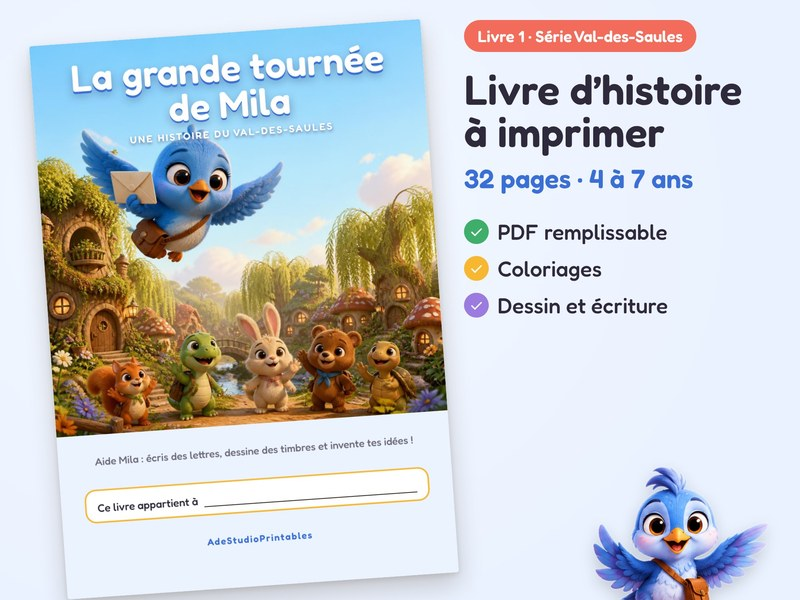
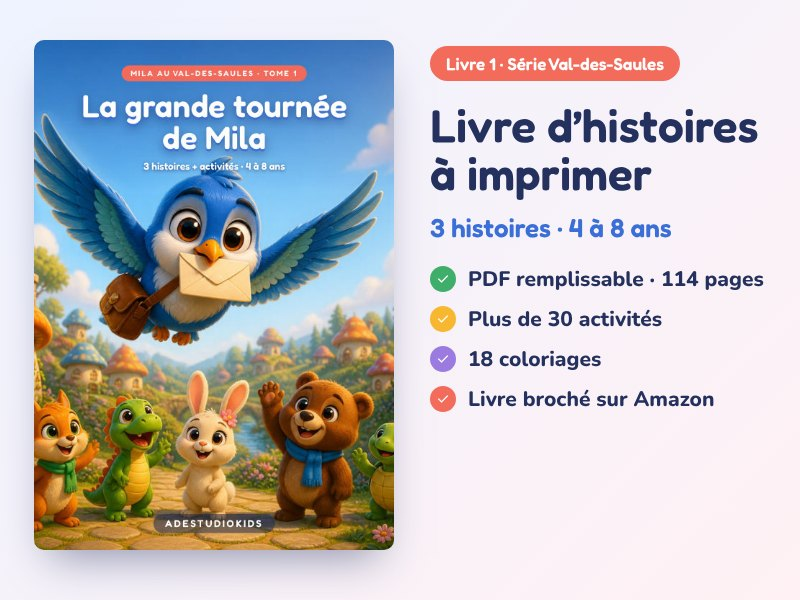
Mila books: new edition cards, add Mila Grows Up / Mila grandit, Amazon paperback links
Claude-Session: https://claude.ai/code/session_015x77RSHWs4ABUyjn3YimF7

diff --git a/index.html b/index.html
@@ -208,11 +208,17 @@ footer a{text-decoration:none} footer a:hover{color:#fff;text-decoration:underli
 <p class="desc" data-fr="26 pages d’hiver pour les 4 à 7 ans : coloriage magique, labyrinthe, mots mêlés, relier les points, coloriages et un diplôme, plus un puzzle numérique. (version anglaise)">26 winter pages for ages 4 to 7: colour by number, maze, word search, dot to dot, colouring and a certificate, plus a digital jigsaw puzzle.</p>
 <p class="buyrow"><span class="price">€6.90</span><a class="etsy" href="https://www.etsy.com/listing/4600428587/winter-activity-book-kids-4-7-printable" target="_blank" rel="noopener" data-fr="Voir sur Etsy">See on Etsy</a></p><a class="alt" href="https://adestudioprintables.gumroad.com/l/nopyoc" target="_blank" rel="noopener" data-fr="Lot FR + EN sur Gumroad, €9.90">English + French bundle on Gumroad, €9.90</a>
 </li><li class="book">
-<a class="cv" href="https://www.etsy.com/listing/4600859390/kids-printable-storybook-ages-4-7" target="_blank" rel="noopener" tabindex="-1" aria-hidden="true"><img src="milas-big-delivery.jpg" alt="Mila’s Big Delivery, printable storybook for ages 4 to 7" loading="lazy" width="800" height="600"><span class="badge" data-fr="Livre 1">Book 1</span></a>
-<p class="kind" data-fr="Livre d’histoire PDF remplissable">Fillable PDF storybook</p>
-<h3><a href="https://www.etsy.com/listing/4600859390/kids-printable-storybook-ages-4-7" target="_blank" rel="noopener">Mila’s Big Delivery storybook</a></h3>
-<p class="desc" data-fr="Aide Mila, l’oiseau facteur, à livrer ses lettres. Un livre d’histoire à compléter avec coloriages, dessins et écriture. 32 pages, 4 à 7 ans. (version anglaise)">Help Mila the post bird deliver her letters around Willow Hollow. A fillable storybook with colouring, drawing and writing pages. 32 pages, ages 4 to 7.</p>
-<p class="buyrow"><span class="price">€7.90</span><a class="etsy" href="https://www.etsy.com/listing/4600859390/kids-printable-storybook-ages-4-7" target="_blank" rel="noopener" data-fr="Voir sur Etsy">See on Etsy</a></p>
+<a class="cv" href="https://www.etsy.com/listing/4600859390" target="_blank" rel="noopener" tabindex="-1" aria-hidden="true"><img src="milas-big-delivery.jpg" alt="Mila’s Big Delivery, storybook and activity book for ages 4 to 8" loading="lazy" width="800" height="600"></a>
+<p class="kind" data-fr="Livre d’histoires PDF remplissable">Fillable PDF storybook</p>
+<h3><a href="https://www.etsy.com/listing/4600859390" target="_blank" rel="noopener">Mila’s Big Delivery</a></h3>
+<p class="desc" data-fr="Trois douces histoires sur le courage, la gratitude et l’entraide, avec plus de 30 activités, 18 coloriages et coloriage à l’écran. 114 pages, 4 à 8 ans. (version anglaise)">Three gentle stories from Willow Hollow about courage, gratitude and caring, with 30+ activities, 18 colouring pages and colour on screen. 114 pages, ages 4 to 8.</p>
+<p class="buyrow"><span class="price">€8.90</span><a class="etsy" href="https://www.etsy.com/listing/4600859390" target="_blank" rel="noopener" data-fr="Voir sur Etsy">See on Etsy</a></p><a class="alt" href="https://www.amazon.com/dp/B0HPYL23RK" target="_blank" rel="noopener" data-fr="Livre broché sur Amazon (anglais)">Paperback on Amazon, $14.99</a>
+</li><li class="book">
+<a class="cv" href="https://www.etsy.com/listing/4606591488" target="_blank" rel="noopener" tabindex="-1" aria-hidden="true"><img src="mila-grows-up.jpg" alt="Mila Grows Up, seven stories and colouring pages for ages 4 to 8" loading="lazy" width="800" height="600"></a>
+<p class="kind" data-fr="Livre d’histoires PDF remplissable">Fillable PDF storybook</p>
+<h3><a href="https://www.etsy.com/listing/4606591488" target="_blank" rel="noopener">Mila Grows Up</a></h3>
+<p class="desc" data-fr="Sept nouvelles histoires sur le courage, l’entraide, l’honnêteté, les erreurs et la patience, avec 30 coloriages. 102 pages, 4 à 8 ans. (version anglaise)">Seven new stories about courage, teamwork, honesty, mistakes and patience, with Let’s Talk pages, 30 colouring pages and colour on screen. 102 pages, ages 4 to 8.</p>
+<p class="buyrow"><span class="price">€7.90</span><a class="etsy" href="https://www.etsy.com/listing/4606591488" target="_blank" rel="noopener" data-fr="Voir sur Etsy">See on Etsy</a></p><a class="alt" href="https://www.amazon.com/dp/B0HQ1R6DHK" target="_blank" rel="noopener" data-fr="Livre broché sur Amazon (anglais)">Paperback on Amazon, $14.99</a>
 </li><li class="book">
 <a class="cv" href="https://www.etsy.com/listing/4600961739/kids-colouring-book-bundle-ages-4-10" target="_blank" rel="noopener" tabindex="-1" aria-hidden="true"><img src="colouring-books-bundle-5.jpg" alt="Kids colouring book bundle: animals, vehicles, ocean, safari and mandalas" loading="lazy" width="800" height="600"><span class="badge" data-fr="Meilleur prix">Best value</span></a>
 <p class="kind" data-fr="Lot de PDF à imprimer">Bundle</p>
@@ -353,11 +359,17 @@ footer a{text-decoration:none} footer a:hover{color:#fff;text-decoration:underli
 <p class="desc" data-fr="Véhicules à colorier : voitures, camions de pompiers, bus scolaires, trains et avions. 21 pages, 4 à 8 ans.">French vehicles colouring book: cars, fire trucks, school buses, trains and planes. 21 pages, ages 4 to 8.</p>
 <p class="buyrow"><span class="price">€4.99</span><a class="etsy" href="https://www.etsy.com/listing/4601181399/livre-de-coloriage-vehicules-enfant-4-8" target="_blank" rel="noopener" data-fr="Voir sur Etsy">See on Etsy</a></p>
 </li><li class="book">
-<a class="cv" href="https://www.etsy.com/listing/4600868300/livre-dhistoire-a-imprimer-enfant-4-7" target="_blank" rel="noopener" tabindex="-1" aria-hidden="true"><img src="la-grande-tournee-de-mila.jpg" alt="La grande tournée de Mila, livre d’histoire à imprimer, 4 à 7 ans" loading="lazy" width="800" height="600"></a>
-<p class="kind" data-fr="Livre d’histoire PDF remplissable">Fillable PDF storybook</p>
-<h3><a href="https://www.etsy.com/listing/4600868300/livre-dhistoire-a-imprimer-enfant-4-7" target="_blank" rel="noopener">La grande tournée de Mila</a></h3>
-<p class="desc" data-fr="Un livre d’histoire à compléter : aide Mila, l’oiseau facteur, à livrer ses lettres. Coloriages, dessins et écriture. 32 pages, 4 à 7 ans.">A French storybook to fill in: help Mila the post bird deliver her letters. Colouring, drawing and writing pages. 32 pages, ages 4 to 7.</p>
-<p class="buyrow"><span class="price">€7.90</span><a class="etsy" href="https://www.etsy.com/listing/4600868300/livre-dhistoire-a-imprimer-enfant-4-7" target="_blank" rel="noopener" data-fr="Voir sur Etsy">See on Etsy</a></p>
+<a class="cv" href="https://www.etsy.com/listing/4600868300" target="_blank" rel="noopener" tabindex="-1" aria-hidden="true"><img src="la-grande-tournee-de-mila.jpg" alt="La grande tournée de Mila, livre d’histoires et d’activités, 4 à 8 ans" loading="lazy" width="800" height="600"></a>
+<p class="kind" data-fr="Livre d’histoires PDF remplissable">Fillable PDF storybook</p>
+<h3><a href="https://www.etsy.com/listing/4600868300" target="_blank" rel="noopener">La grande tournée de Mila</a></h3>
+<p class="desc" data-fr="Trois douces histoires du Val-des-Saules sur le courage, la gratitude et l’entraide, avec plus de 30 activités, 18 coloriages et coloriage à l’écran. 114 pages, 4 à 8 ans.">Three gentle stories in French with 30+ activities, 18 colouring pages and colour on screen. 114 pages, ages 4 to 8. (French edition)</p>
+<p class="buyrow"><span class="price">€8.90</span><a class="etsy" href="https://www.etsy.com/listing/4600868300" target="_blank" rel="noopener" data-fr="Voir sur Etsy">See on Etsy</a></p><a class="alt" href="https://www.amazon.fr/dp/B0HPYJ6V76" target="_blank" rel="noopener" data-fr="Livre broché sur Amazon, 13,99 €">Paperback on Amazon (French), 13,99 €</a>
+</li><li class="book">
+<a class="cv" href="https://www.etsy.com/listing/4606596130" target="_blank" rel="noopener" tabindex="-1" aria-hidden="true"><img src="mila-grandit.jpg" alt="Mila grandit, sept histoires et coloriages, 4 à 8 ans" loading="lazy" width="800" height="600"></a>
+<p class="kind" data-fr="Livre d’histoires PDF remplissable">Fillable PDF storybook</p>
+<h3><a href="https://www.etsy.com/listing/4606596130" target="_blank" rel="noopener">Mila grandit</a></h3>
+<p class="desc" data-fr="Sept nouvelles histoires sur le courage, l’entraide, l’honnêteté, les erreurs et la patience, avec pages « Parlons-en » et 30 coloriages. 102 pages, 4 à 8 ans.">Seven new stories in French with Parlons-en pages, 30 colouring pages and colour on screen. 102 pages, ages 4 to 8. (French edition)</p>
+<p class="buyrow"><span class="price">€7.90</span><a class="etsy" href="https://www.etsy.com/listing/4606596130" target="_blank" rel="noopener" data-fr="Voir sur Etsy">See on Etsy</a></p><a class="alt" href="https://www.amazon.fr/dp/B0HQ212SKX" target="_blank" rel="noopener" data-fr="Livre broché sur Amazon, 13,99 €">Paperback on Amazon (French), 13,99 €</a>
 </li><li class="book">
 <a class="cv" href="https://www.etsy.com/listing/4601613182/cahier-dactivites-maternelle-4-7-ans-a" target="_blank" rel="noopener" tabindex="-1" aria-hidden="true"><img src="cahier-activites-petits-apprentis.jpg" alt="Cahier d’activités Petits Apprentis, 4 à 7 ans" loading="lazy" width="800" height="600"><span class="badge" data-fr="Nouveau">New</span></a>
 <p class="kind" data-fr="PDF à imprimer">Printable PDF</p>
